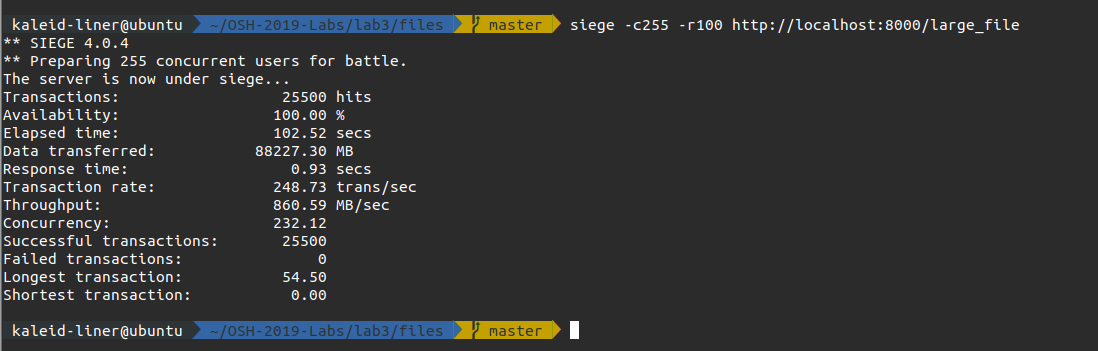
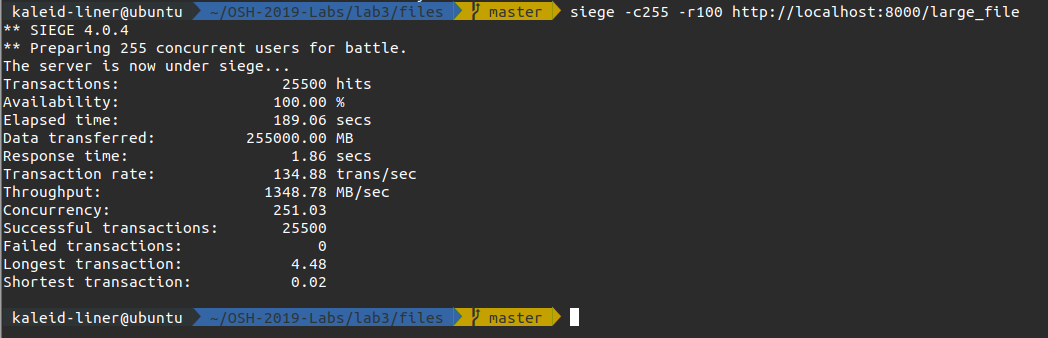
use sendfile; nonblocking; oneshot

Changed region(s): [[0.0, 0.0, 0.9771, 0.858], [0.0, 0.8876, 0.5496, 0.9763]]

diff --git a/src/main.c b/src/main.c
@@ -10,6 +10,7 @@
 #include <sys/epoll.h>
 #include <fcntl.h>
 #include <signal.h>
+#include <sys/sendfile.h>
 #include "netutils.h"
 #include "main.h"
 
@@ -24,10 +25,10 @@ int parse_request(const char *req_str, request_t *req_info) {
     }
 }
 
-void handle_request(const request_t *req) {
+FILE *handle_request(const request_t *req) {
     if (strncmp(req->method, "GET", 3) != 0) {
         fprintf(stderr, "only support `GET` method\n");
-        return;
+        return NULL;
     }
 
     char *abs_path = (char *)malloc(PATH_MAX);
@@ -45,7 +46,7 @@ void handle_request(const request_t *req) {
 
     if (strncmp(cur_dir, abs_path, strlen(cur_dir)) != 0) {
         send_response(req->connfd, ISE, content_500, strlen(content_500));
-        return;
+        return NULL;
     } 
 
     FILE *file = fopen(abs_path, "rb");
@@ -57,11 +58,10 @@ void handle_request(const request_t *req) {
         } else {
             send_response(req->connfd, ISE, content_500, strlen(content_500));
         }
-        return;
+        return NULL;
     }
 
-    send_file_response(req->connfd, file);
-    fclose(file);
+    return file;
 }
 
 void send_response(int connfd, status_t status, 
@@ -93,84 +93,132 @@ void send_file_response(int connfd, FILE *file) {
     fseek(file, 0L, SEEK_END);
     __off_t file_size = ftell(file);
     fseek(file, 0L, SEEK_SET);
-    if (file_size < 0) file_size = LONG_MAX;
     
     char header[64];
-    char *buf = (char *)malloc(min(BUF_SIZE, file_size));
-    if (buf == NULL) {
-        perror("malloc");
-    }
     sprintf(header, "HTTP/1.0 200 OK\r\nContent-Length: %ld\r\n\r\n", file_size);
     rio_writen(connfd, header, strlen(header));
 
     size_t readn;
-    while ((readn = fread(buf, 1, BUF_SIZE, file)) > 0) {
-        rio_writen(connfd, buf, readn);
-    }
 
-    free(buf);
+    int filefd = fileno(file);
+    ssize_t left = file_size;
+    ssize_t writen;
+    while (left > 0) {
+        writen = sendfile(connfd, filefd, NULL, left);
+        if (writen < 0) {
+            if (errno == EAGAIN || errno == EWOULDBLOCK)
+                continue;
+            perror("sendfile");
+            break;
+        }
+        left -= writen;
+    }
 }
 
-int server(http_status_t *status) {
+void server(http_status_t *status) {
     int connfd = status->connfd;
     char *header = status->header;
     size_t readn = status->readn;
 
-    int is_end = 0;
+    if (status->req_status == Reading) {
+        int is_end = 0;
 
-    while (1) {
-        ssize_t ret = read(connfd, header + readn, 1);
-        if (readn >= MAX_HEADER) {
-            // entity too large
-            free(header);
-            free(status);
-            send_response(connfd, ISE, content_500, sizeof(content_500));
-            close(connfd);
-            break;
-        }
-        if (ret < 0) {
-            if (errno == EAGAIN || errno == EWOULDBLOCK) {
-                // read end normally
+        while (1) {
+            ssize_t ret = read(connfd, header + readn, 1);
+            if (readn >= MAX_HEADER) {
+                // entity too large
+                status->req_status = Ended;
+                send_response(connfd, ISE, content_500, sizeof(content_500));
+                return;
+            }
+            if (ret < 0) {
+                if (errno == EAGAIN || errno == EWOULDBLOCK) {
+                    // read end normally
+                    break;
+                } else {
+                    perror("read");
+                    break;
+                }
+            } else if (ret == 0) {
+                // EOF encountered
                 break;
             } else {
-                perror("read");
-                break;
+                readn++;
+                if ( readn >= 4
+                && header[readn - 1] == '\n'
+                && header[readn - 2] == '\r'
+                && header[readn - 3] == '\n'
+                && header[readn - 4] == '\r' ) {
+                    is_end = 1;
+                    break;
+                }
             }
-        } else if (ret == 0) {
-            // EOF encountered
-            break;
+        }
+
+        if (!is_end) {
+            status->readn = readn;
+            return;
+        }
+
+        request_t req_info;
+        if (parse_request(header, &req_info) < 0) {
+            send_response(connfd, ISE, content_500, strlen(content_500));
+            status->req_status = Ended;
+            return;
+        }
+
+        req_info.connfd = connfd;
+        FILE *file = handle_request(&req_info);
+
+        fseek(file, 0L, SEEK_END);
+        __off_t file_size = ftell(file);
+        fseek(file, 0L, SEEK_SET);
+
+        if (file != NULL) {
+            char resp_header[64];
+            sprintf(resp_header, "HTTP/1.0 200 OK\r\nContent-Length: %ld\r\n\r\n", file_size);
+            rio_writen(connfd, resp_header, strlen(resp_header));
+            status->file = file;
+            status->left = file_size;
+            status->req_status = Writing;
         } else {
-            readn++;
-            if ( readn >= 4
-              && header[readn - 1] == '\n'
-              && header[readn - 2] == '\r'
-              && header[readn - 3] == '\n'
-              && header[readn - 4] == '\r' ) {
-                is_end = 1;
-                break;
-            }
+            status->req_status = Ended;
+            return;
         }
     }
 
-    if (!is_end) {
-        status->readn = readn;
-        return 0;
+    if (status->req_status == Writing) {
+        FILE *file = status->file;
+        int filefd = fileno(file);
+        size_t left = status->left;
+        ssize_t writen;
+
+        while (left > 0) {
+            writen = sendfile(connfd, filefd, NULL, left);
+            if (writen < 0) {
+                if (errno == EAGAIN || errno == EWOULDBLOCK) {
+                    // read end normally
+                    break;
+                } else {
+                    perror("sendfile");
+                    status->req_status = Ended;
+                    return;
+                }
+            } else if (writen == 0) {
+                // EOF encountered
+                status->req_status = Ended;
+                return;
+            } else {
+                left -= writen;
+            }
+        }
+
+        if (left == 0) {
+            status->req_status = Ended;
+        } else {
+            status->left = left;
+        }
     }
-
-    request_t req_info;
-    if (parse_request(header, &req_info) < 0) {
-        send_response(connfd, ISE, content_500, strlen(content_500));
-        return 1;
-    }
-
-    free(header);
-    free(status);
-
-    req_info.connfd = connfd;
-    handle_request(&req_info);
-
-    close(connfd);
-    return 1;
 }
 
 void *thread(void *args) {
@@ -208,7 +256,7 @@ void *thread(void *args) {
 
                     setnonblocking(connfd);
 
-                    ev.events = EPOLLIN | EPOLLET;
+                    ev.events = EPOLLIN | EPOLLET | EPOLLONESHOT;
 
                     http_status_t *status = (http_status_t *)malloc(sizeof(http_status_t));
                     char *header = (char *)malloc(MAX_HEADER);
@@ -219,6 +267,7 @@ void *thread(void *args) {
                     status->header = header;
                     status->connfd = connfd;
                     status->readn = 0;
+                    status->req_status = Reading;
                     ev.data.ptr = status;
 
                     if (epoll_ctl(epollfd, EPOLL_CTL_ADD, connfd, &ev) < 0) {
@@ -229,6 +278,32 @@ void *thread(void *args) {
             } else {
                 http_status_t *status = (http_status_t *)events[n].data.ptr;
                 server(status);
+                if (status->req_status == Reading) {
+                    ev.events = EPOLLIN | EPOLLET | EPOLLONESHOT;
+                    ev.data.ptr = status;
+                    if (epoll_ctl(epollfd, EPOLL_CTL_MOD, status->connfd, &ev) < 0) {
+                        perror("epoll_ctl");
+                        continue;
+                    }
+                } else if (status->req_status == Writing) {
+                    ev.events = EPOLLOUT | EPOLLET | EPOLLONESHOT;
+                    ev.data.ptr = status;
+                    if (epoll_ctl(epollfd, EPOLL_CTL_MOD, status->connfd, &ev) < 0) {
+                        perror("epoll_ctl");
+                        continue;
+                    }
+                } else if (status->req_status == Ended) {
+                    if (status->file != NULL) {
+                        fclose(status->file);
+                        status->file = NULL;
+                    }
+                    if (status->header != NULL) {
+                        free(status->header);
+                        status->header = NULL;
+                    }
+                    close(status->connfd);
+                    free(status);
+                }
             }
         }
     }

diff --git a/src/main.h b/src/main.h
@@ -15,6 +15,12 @@ typedef enum STATUS {
     NF    // Not Found
 } status_t;
 
+typedef enum REQUEST_STATUS {
+    Reading,
+    Writing,
+    Ended
+} req_status_t;
+
 typedef struct RequestInfo {
     int connfd; // connection file descriptor
 
@@ -29,17 +35,20 @@ const char *content_200 = "Hello from OSH web server";
 
 void send_file_response(int connfd, FILE *file);
 void send_response(int connfd, status_t status, const char *content, size_t content_length);
-void handle_request(const request_t *req);
+FILE *handle_request(const request_t *req);
 int parse_request(const char *req_str, request_t *req_info);
 
 typedef struct HttpStatus {
     int connfd;
     char *header;
     size_t readn;
+    FILE *file;
+    size_t left;
+    req_status_t req_status;
 } http_status_t;
 
 // 0 if not end, 1 if end response
-int server(http_status_t *status);
+void server(http_status_t *status);
 
 struct thread_args {
     int listenfd;

diff --git a/README.md b/README.md
@@ -4,7 +4,7 @@ A simple yet high performance web server written with epoll and pure c.
 
 ## Compile
 
-Type in folder [/src](./src)
+Type in folder [/files](./files)
 
 ```bash
 make
@@ -45,14 +45,29 @@ Concurrency of this web server was implemented by using thread pool (Posix threa
           int connfd;     // connection file descriptor
           char *header;   // http header read, malloced with `MAX_HEADER` size
           size_t readn;   // number of bytes read
+          FILE *file;     // file to send
+          size_t left;    // number of bytes left to send
+          req_status_t req_status; 
       } http_status_t;
+      ```
+
+      While `req_status_t` is defined as:
+
+      ```c
+      typedef enum REQUEST_STATUS {
+          Reading,
+          Writing,
+          Ended
+      } req_status_t;
       ```
 
       Next time when `epoll_wait` get events on this fd, the server will continue on the request.
 
+   3. After complete reading, connfd will enter status `Writing`. If `sendfile` cause `EAGAIN`, and `left > 0` , it means that writing end is temporily unavailable. I have to save the status, `EPOLL_CTL_MOD` to change its trigger events to `EPOLLOUT | EPOLLET`. And continue the writing next time. 
+
 ### Notice
 
-- While calling `read` on a nonblocking descriptor, only when you get a `-1` return value and `errno == EAGAIN || errno == EWOULDBLOCK` (no data left) or a `0` return value (EOF detected), it means that the reading is done.
+- While calling `read` or `sendfile` on a nonblocking descriptor, only when you get a `-1` return value and `errno == EAGAIN || errno == EWOULDBLOCK` (no data left) or a `0` return value (EOF detected), it means that the reading is done.
 
   You may get a `0` return value when:
 
@@ -65,6 +80,10 @@ Concurrency of this web server was implemented by using thread pool (Posix threa
   *Why I share an epoll instance among threads:* Because this is more performant. And `epoll_wait` is generally thread-safe. ET also overperfoms LT.
 
 - `epoll_data_t.data` is a union. Its `ptr` field is designed to store session state. You should malloc status when needed and assign it to the `ptr`, and free it after you have done responding to it.
+
+- Notice that writing to connfd (by calling `sendfile`) is also non-blocking.
+
+- **USE EPOLLONESHOT** in multithreaded environment.
 
 ## Features
 
